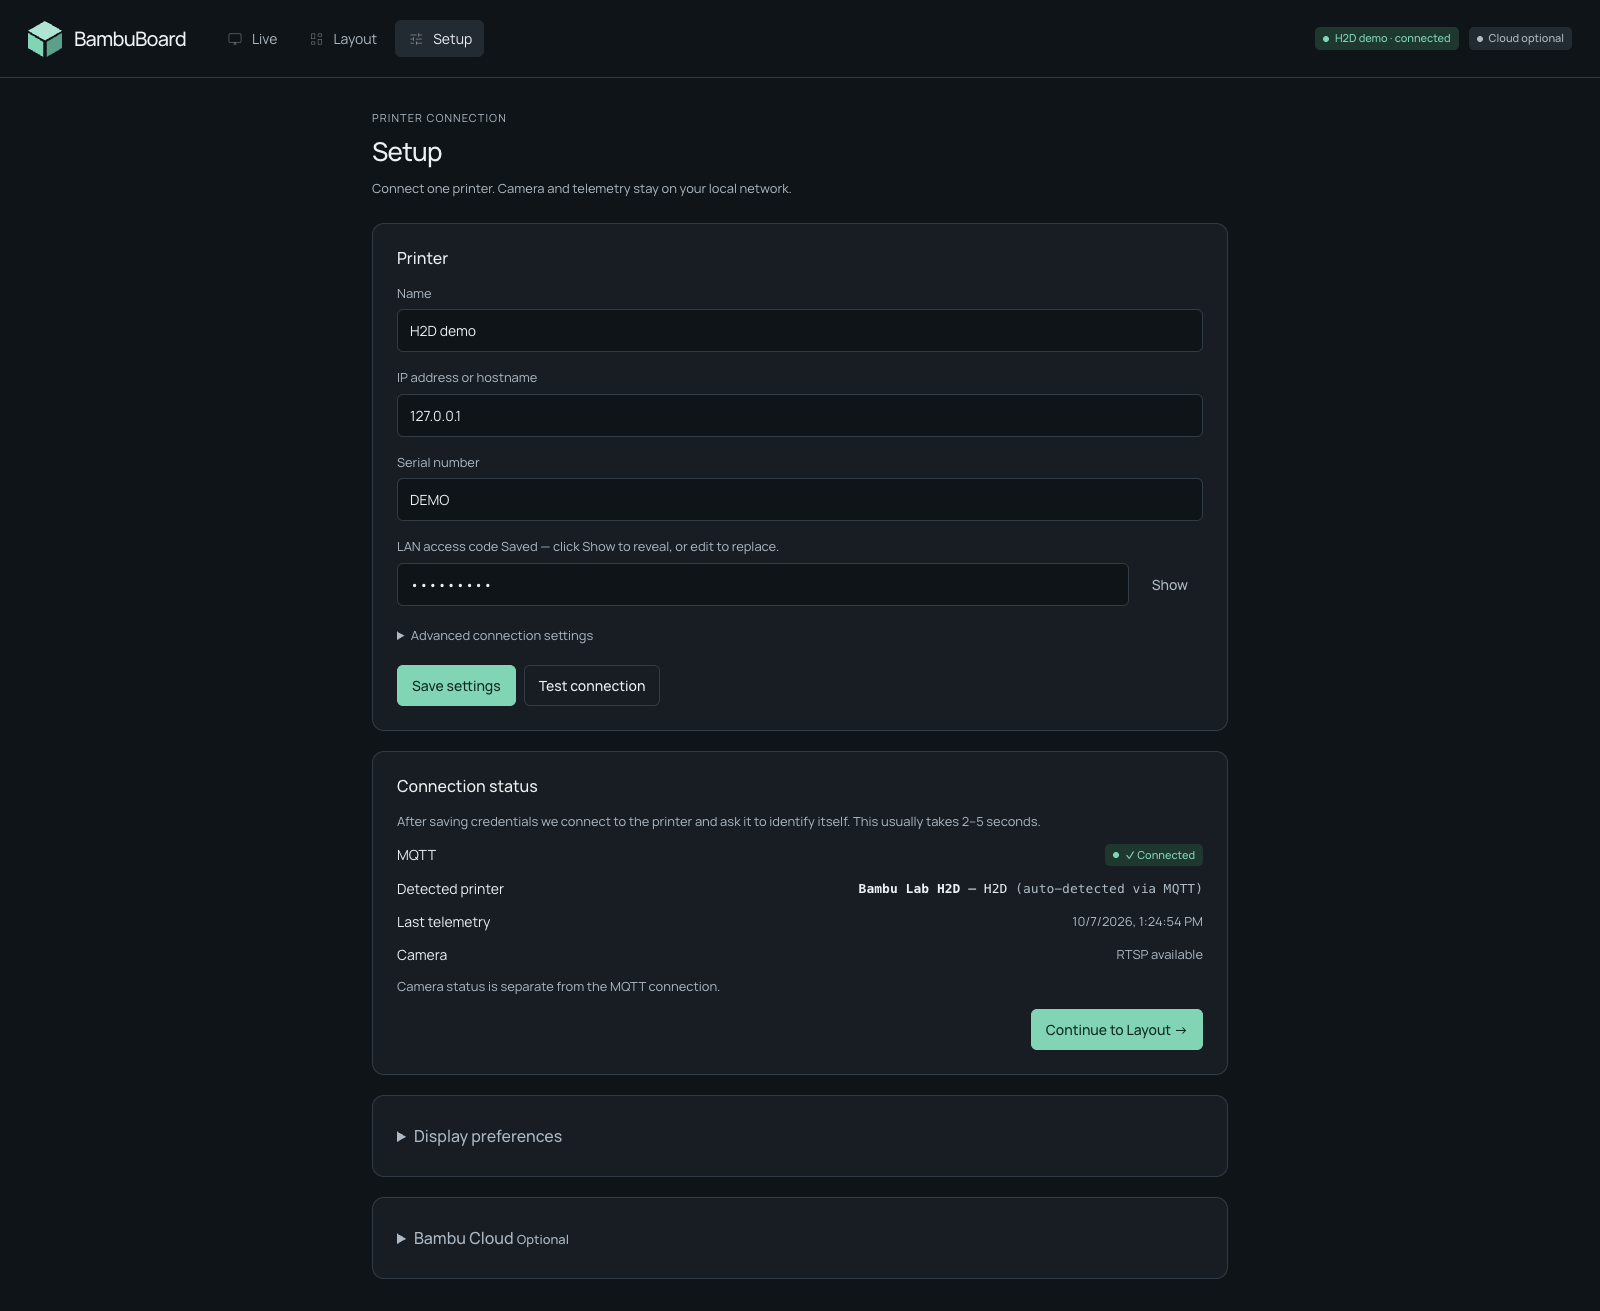
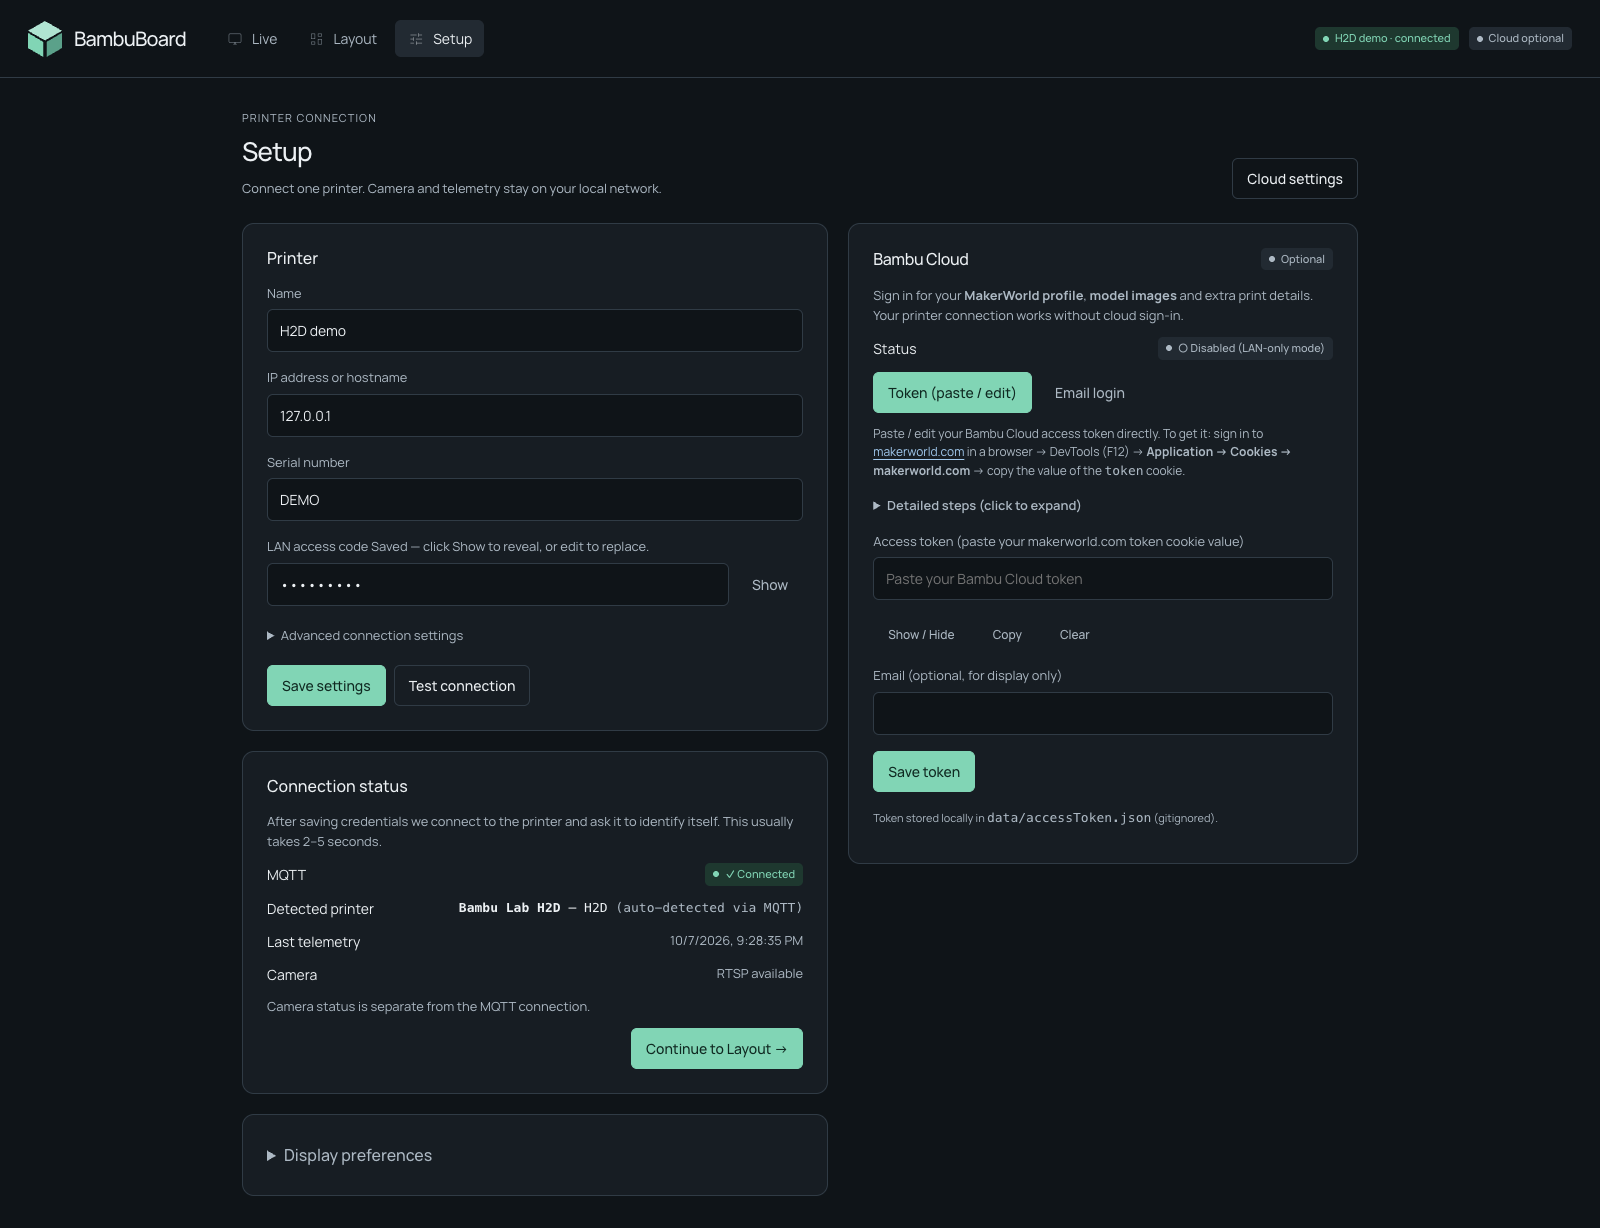
Make Bambu Cloud settings visible alongside printer setup

diff --git a/test/ui-check.js b/test/ui-check.js
@@ -80,9 +80,29 @@ async function runEngine(name, artifactDir) {
     await audit('Telemetry bindings');
     await page.locator('#widget-drawer-btn').click(); await audit('Widget library'); await page.locator('#widget-drawer-close').click();
     for (const route of ['/', '/setup', '/login']) {
+      if (route === '/setup') {
+        await page.route('**/auth/status', request => request.fulfill({ json: { enabled: true, signedIn: true, email: 'demo@example.test' } }));
+        await page.route('**/auth/token', request => request.fulfill({ json: { token: 'fixture-saved-cloud-token', email: 'demo@example.test' } }));
+      }
       await page.goto(base + route); await page.waitForSelector('.nav-brand'); await page.evaluate(() => document.fonts.ready);
-      if (route === '/setup') { await page.locator('.display-preferences > summary').click(); await page.locator('#cloud-section > summary').click(); }
+      if (route === '/setup') {
+        await page.waitForFunction(() => document.getElementById('cloud-status-pill').textContent !== 'Checking…');
+        assert.equal(await page.locator('#cloud-token').isVisible(), true, 'Cloud settings are visible without opening an accordion');
+        assert.equal(await page.locator('#cloud-token').getAttribute('type'), 'password');
+        assert.equal(await page.locator('#cloud-token').inputValue(), 'fixture-saved-cloud-token');
+        assert.match(await page.locator('#cloud-status-pill').innerText(), /Signed in as demo@example.test/);
+        await page.locator('#cloud-token').fill('fixture-cloud-token');
+        await page.locator('#cloud-token-show').click();
+        assert.equal(await page.locator('#cloud-token').getAttribute('type'), 'text');
+        assert.equal(await page.locator('#cloud-token').inputValue(), 'fixture-cloud-token');
+        await page.locator('#cloud-token-show').click();
+        assert.equal(await page.locator('#cloud-token').getAttribute('type'), 'password');
+        await page.locator('#cloud-token-clear').click();
+        assert.equal(await page.locator('#cloud-token').inputValue(), '');
+        await page.locator('.display-preferences > summary').click();
+      }
       await audit(route);
+      if (route === '/setup') { await page.unroute('**/auth/status'); await page.unroute('**/auth/token'); }
     }
     await fs.writeFile(path.join(artifactDir, `accessibility-${name}.json`), JSON.stringify(accessibility, null, 2));
     assert.deepEqual(accessibility.flatMap(a => a.violations), [], 'Management UI accessibility violations');
@@ -188,7 +208,18 @@ async function runEngine(name, artifactDir) {
       for (const route of ['/', '/scene-editor', '/setup']) {
         await page.goto(base + route); await page.waitForSelector('.nav-brand');
         if (route === '/scene-editor') { await page.waitForSelector('.scene-item'); await page.locator('#widget-drawer-btn').click(); }
-        if (route === '/setup') { await page.waitForFunction(() => document.getElementById('p-name').value === 'QA H2D'); await page.locator('#cloud-section > summary').click(); await page.locator('#cloud-tab-email').click(); }
+        if (route === '/setup') {
+          await page.waitForFunction(() => document.getElementById('p-name').value === 'QA H2D');
+          assert.equal(await page.locator('#cloud-token').isVisible(), true);
+          if (width >= 1000) {
+            const printer = await page.locator('.setup-main').boundingBox(), cloud = await page.locator('#cloud-section').boundingBox();
+            assert.ok(Math.abs(printer.y - cloud.y) < 2 && cloud.x > printer.x + printer.width, 'Cloud sits alongside the printer at the top');
+          } else {
+            await page.locator('a[href="#cloud-section"]').click();
+            await page.waitForFunction(() => { const box = document.getElementById('cloud-heading').getBoundingClientRect(); return box.top >= 0 && box.bottom < innerHeight; });
+          }
+          await page.locator('#cloud-tab-email').click();
+        }
         await page.evaluate(() => document.fonts.ready);
         assert.ok(await page.evaluate(() => document.documentElement.scrollWidth <= innerWidth), `${name}: ${route} overflows at ${width}`);
         layouts.push({ width, route });

diff --git a/views/setup.html b/views/setup.html
@@ -10,15 +10,16 @@
   <link rel="stylesheet" href="/css/setup.css">
 </head>
 <body>
-  <main class="page page-narrow">
+  <main class="page setup-page">
 
     <div class="firstrun-hero" id="firstrun-hero" style="display:none">
       <h1>Welcome to BambuBoard</h1>
       <p>Tell us about your printer to get started. You'll need its IP address, serial number, and LAN access code (find these in Bambu Studio under Device → Access Code).</p>
     </div>
 
-    <header class="page-heading"><div><p class="eyebrow">Printer connection</p><h1>Setup</h1><p class="text-dim">Connect one printer. Camera and telemetry stay on your local network.</p></div></header>
+    <header class="page-heading"><div><p class="eyebrow">Printer connection</p><h1>Setup</h1><p class="text-dim">Connect one printer. Camera and telemetry stay on your local network.</p></div><a class="btn" href="#cloud-section">Cloud settings</a></header>
     <div class="setup-grid">
+      <div class="setup-main">
 
       <section class="card">
         <h3 class="card-title">Printer</h3>
@@ -98,12 +99,13 @@
         </div>
       </details>
 
-      <!-- Bambu Cloud auth — for the MakerWorld profile + model-image widgets.
-           Both sign-in methods are always visible so the token field can be
-           viewed/edited at any time without having to sign out first. -->
-      <details class="card cloud-section" id="cloud-section">
-        <summary class="card-title">Bambu Cloud <span class="text-dim">Optional</span></summary>
-        <p class="cloud-status">Sign in to populate the <strong>MakerWorld profile</strong> and <strong>model image</strong> widgets. LAN-only operation does not need this — skip this section unless you want those widgets.</p>
+      </div>
+
+      <!-- Bambu Cloud auth — keep both sign-in methods available without
+           requiring the user to sign out before replacing a token. -->
+      <section class="card cloud-section" id="cloud-section" aria-labelledby="cloud-heading">
+        <div class="cloud-heading"><h2 class="card-title" id="cloud-heading">Bambu Cloud</h2><span class="pill">Optional</span></div>
+        <p class="cloud-status">Sign in for your <strong>MakerWorld profile</strong>, <strong>model images</strong> and extra print details. Your printer connection works without cloud sign-in.</p>
 
         <!-- Status row — always visible -->
         <div class="card-row" style="margin-bottom: var(--space-3)">
@@ -140,7 +142,7 @@
           </details>
           <label class="field">
             <span>Access token <small class="text-dim" id="cloud-token-hint">(leave as-is, or paste a new one to replace)</small></span>
-            <textarea id="cloud-token" class="input" rows="3" style="font-family: var(--font-mono); font-size: 11px; resize: vertical; word-break: break-all" placeholder="eyJhbGciOi..."></textarea>
+            <input id="cloud-token" class="input text-mono" type="password" autocomplete="off" spellcheck="false" placeholder="Paste your Bambu Cloud token">
           </label>
           <div class="btn-row" style="margin-top: var(--space-2)">
             <button id="cloud-token-show"  class="btn btn-ghost" type="button" style="font-size: 12px">Show / Hide</button>
@@ -186,10 +188,7 @@
             &middot; <a href="#" id="cloud-disable">Disable cloud auth entirely</a>
           </span>
         </p>
-      </details>
-
-
-
+      </section>
     </div>
   </main>
 

diff --git a/public/js/setup.js b/public/js/setup.js
@@ -249,7 +249,6 @@
       const hint       = document.getElementById('cloud-token-hint');
       if (tokenField && tokInfo) {
         tokenField.value = tokInfo.token || '';
-        tokenField.type = 'text'; // textarea ignores type, use show/hide via dataset masking instead
         // Mask visually if not in show mode
         applyTokenMask();
         if (tokInfo.token) {
@@ -268,10 +267,10 @@
       if (!ta.dataset.real) ta.dataset.real = ta.value;
       if (tokenVisible) {
         ta.value = ta.dataset.real;
-        ta.style.webkitTextSecurity = '';
+        ta.type = 'text';
       } else {
-        // Browser-native password masking on textarea (Webkit/Chromium/Safari)
-        ta.style.webkitTextSecurity = 'disc';
+        // Use a password input so saved tokens are masked in every browser.
+        ta.type = 'password';
       }
     }
 
@@ -292,20 +291,20 @@
     tokenField.addEventListener('input', () => {
       tokenField.dataset.real = tokenField.value;
       // While typing, always show the value (no masking interference)
-      tokenField.style.webkitTextSecurity = '';
+      tokenField.type = 'text';
     });
     tokenField.addEventListener('focus', () => {
       // On focus, reveal so editing is sane
-      tokenField.style.webkitTextSecurity = '';
+      tokenField.type = 'text';
     });
     tokenField.addEventListener('blur', () => {
       // On blur, re-apply mask if user hasn't toggled show
-      if (!tokenVisible) tokenField.style.webkitTextSecurity = 'disc';
+      if (!tokenVisible) tokenField.type = 'password';
     });
 
     document.getElementById('cloud-token-show').addEventListener('click', () => {
       tokenVisible = !tokenVisible;
-      tokenField.style.webkitTextSecurity = tokenVisible ? '' : 'disc';
+      tokenField.type = tokenVisible ? 'text' : 'password';
     });
     document.getElementById('cloud-token-copy').addEventListener('click', async () => {
       try {
@@ -316,7 +315,7 @@
     document.getElementById('cloud-token-clear').addEventListener('click', () => {
       tokenField.value = '';
       tokenField.dataset.real = '';
-      tokenField.style.webkitTextSecurity = '';
+      tokenField.type = 'text';
       tokenField.focus();
     });
 

diff --git a/test/browser-check.js b/test/browser-check.js
@@ -117,7 +117,7 @@ const fixtureGcode = 'G90\nM82\n;LAYER:0\nG1 X10 Y10 Z0.2 E1\nG1 X80 Y10 E2\nG1 
     await page.locator('#save-btn').click(); await page.waitForSelector('.toast');
     const saved = JSON.parse(await fs.readFile(path.join(data, 'config.json'), 'utf8'));
     assert.equal(saved.BambuBoard_displayFanPercentages, checked !== 'true');
-    await page.locator('#cloud-section > summary').click(); await page.locator('#cloud-tab-email').click();
+    await page.locator('#cloud-tab-email').click();
     assert.equal(await page.locator('#cloud-method-email').isVisible(), true);
     const relayPage = await context.newPage();
     await relayPage.addInitScript(() => {
@@ -215,7 +215,7 @@ const fixtureGcode = 'G90\nM82\n;LAYER:0\nG1 X10 Y10 Z0.2 E1\nG1 X80 Y10 E2\nG1 
     assert.ok(await page.evaluate(() => document.documentElement.scrollWidth <= innerWidth));
     await page.locator('#widget-drawer-close').click(); assert.equal(await page.locator('#layers-panel').isVisible(), true);
     await page.goto(base + '/setup?firstRun=1'); await page.waitForFunction(() => !document.getElementById('bb-stepper').hidden);
-    await page.locator('.display-preferences > summary').click(); await page.locator('#cloud-section > summary').click(); await page.locator('#cloud-tab-email').click();
+    await page.locator('.display-preferences > summary').click(); await page.locator('#cloud-tab-email').click();
     assert.ok(await page.evaluate(() => document.documentElement.scrollWidth <= innerWidth));
     assert.deepEqual(errors, [], 'browser JavaScript errors');
     assert.deepEqual([...external], [], 'LAN operation must not request CDN assets');

diff --git a/public/css/setup.css b/public/css/setup.css
@@ -1,3 +1,5 @@
+.setup-page { max-width: 1180px; }
+.setup-main { display: grid; gap: 20px; min-width: 0; }
 .setup-grid {
   display: grid;
   grid-template-columns: 1fr;
@@ -32,8 +34,15 @@
 
 .setup-grid .card + .card { margin-top: 0; }
 .advanced-connection { margin: 16px 0; }
-.cloud-section > summary, .display-preferences > summary { margin-bottom: 0; }
-.cloud-section[open] > summary, .display-preferences[open] > summary { margin-bottom: 20px; }
+.display-preferences > summary { margin-bottom: 0; }
+.display-preferences[open] > summary { margin-bottom: 20px; }
 #connect-camera-hint { margin-top: 12px; }
 #connect-detected { overflow-wrap: anywhere; }
 #cloud-status-pill { white-space: normal; overflow-wrap: anywhere; }
+
+.cloud-section { min-width: 0; scroll-margin-top: 100px; }
+.cloud-heading { display: flex; align-items: center; justify-content: space-between; flex-wrap: wrap; gap: 12px; margin-bottom: 16px; }
+.cloud-heading .card-title { margin: 0; }
+@media (min-width: 1000px) {
+  .setup-grid { grid-template-columns: minmax(0, 1.15fr) minmax(0, 1fr); align-items: start; }
+}

diff --git a/README.md b/README.md
@@ -45,7 +45,7 @@ Everything else from v2 (LAN-only operation, Bambu Cloud auth, all the per-widge
   <tr>
     <td width="50%" valign="top">
       <h4>Setup</h4>
-      <p>Printer credentials, connection test, and optional Bambu Cloud sign-in.</p>
+      <p>Printer connection and an always-visible Bambu Cloud card, with sign-in status and controls.</p>
       <a href="screenshots/STUDIO-SETUP.png"><img src="screenshots/STUDIO-SETUP.png" alt="Setup page" width="100%"></a>
     </td>
     <td width="50%" valign="top">
@@ -270,7 +270,7 @@ Both templates use the **combined AMS widget** (chamber temp + humidity + drying
 
 ## Bambu Cloud auth (optional)
 
-Off by default. Enable in `/setup` to populate the `profile-info` and `model-image` widgets with live MakerWorld data. Sign-in flow uses email + verification code (and MFA if enabled on your Bambu account). Tokens are cached in `data/accessToken.json` (gitignored). LAN-only operation does not require this.
+Cloud sign-in is off by default. In `/setup`, the Bambu Cloud card appears alongside printer settings on desktop; the **Cloud settings** shortcut jumps to it on smaller screens. Paste a token from your signed-in MakerWorld session, or use email + verification code and MFA when requested. Successful sign-in enables cloud features and stores the token in `data/accessToken.json` (gitignored). LAN-only operation does not require this.
 
 ---
 

diff --git a/CHANGELOG.md b/CHANGELOG.md
@@ -4,6 +4,13 @@ All notable changes to this project are documented in this file. The format foll
 
 ---
 
+## Unreleased
+
+### Changed
+- Make Bambu Cloud settings an always-visible card alongside printer setup on desktop, with a direct shortcut on smaller screens. Keep saved tokens masked across browser engines and retain the existing printer, connection and display controls.
+
+---
+
 ## 3.1.5 — 2026-08-22
 
 ### Changed
@@ -542,4 +549,3 @@ The hub's "Download for OBS" button serves these with `<HOST>` substituted from 
 4. The `bambuboard-h2d` Docker repository will be archived; switch to `bambuboard:latest`.
 
 ---
-
